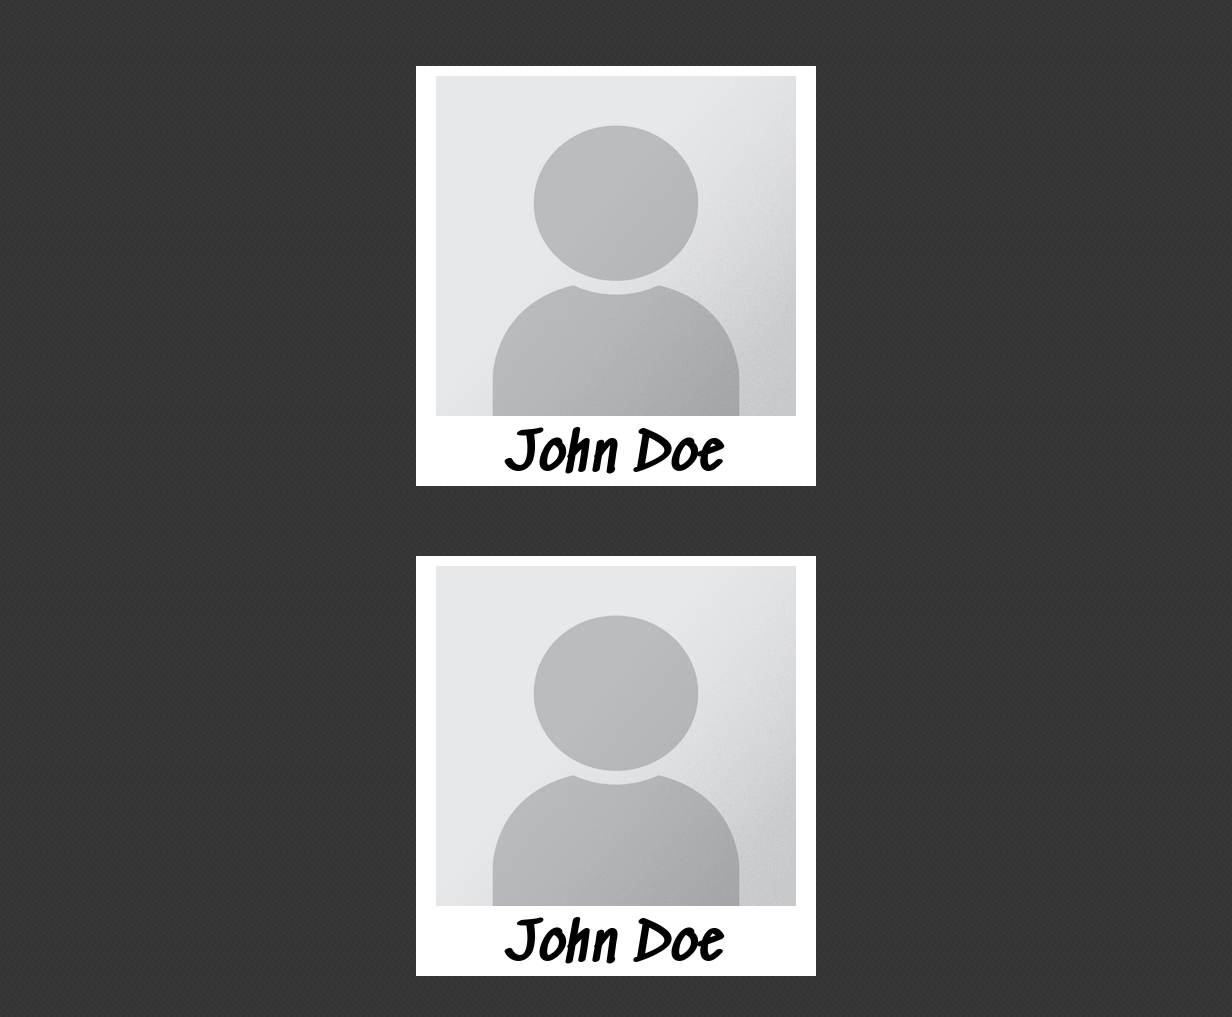
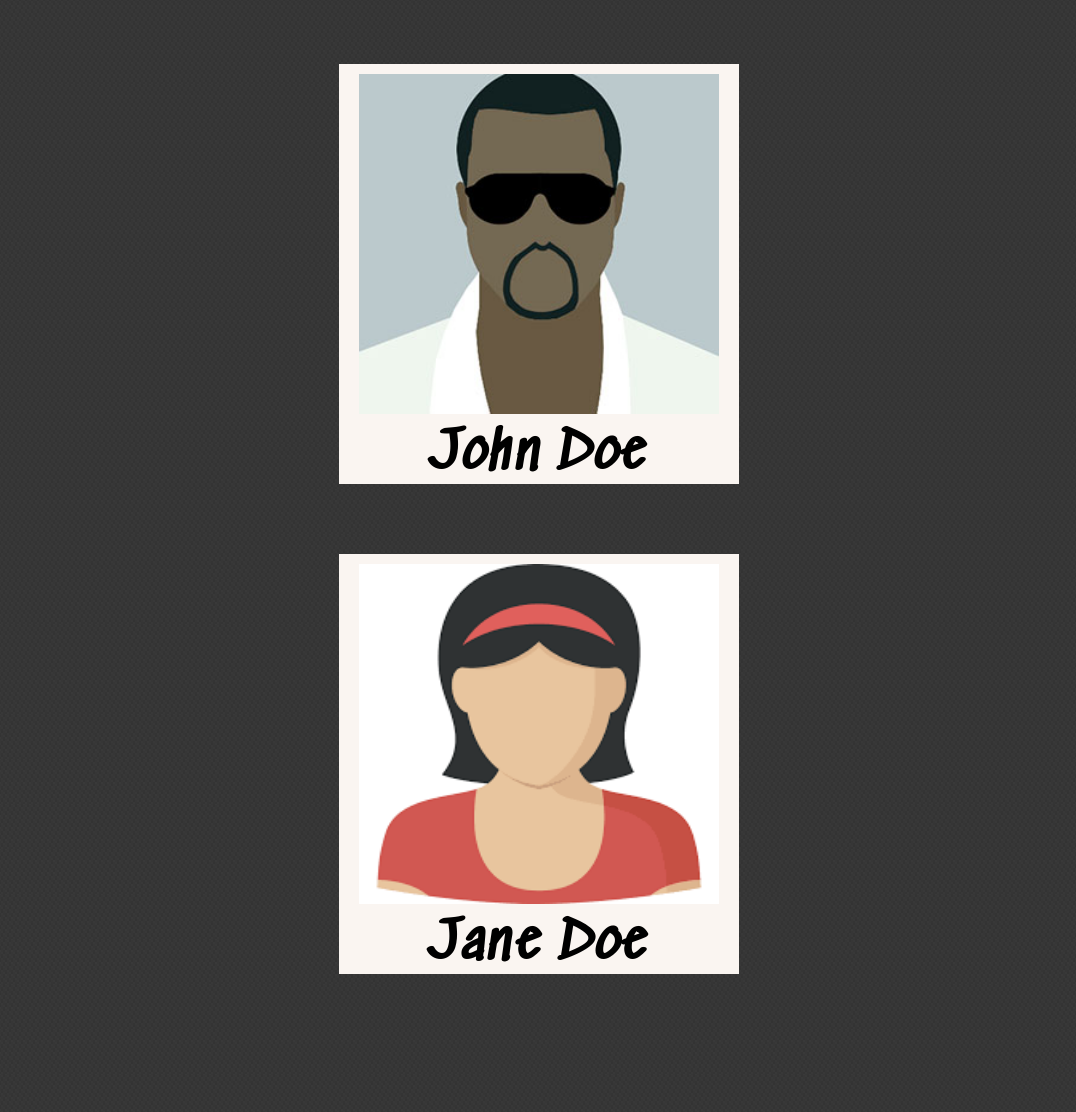
add images

Changed region(s): [[0.3067, 0.0305, 0.7054, 0.9754]]

diff --git a/WOD_Login-screen/Login.html b/WOD_Login-screen/Login.html
@@ -33,7 +33,7 @@ body{
 height:420px;
 width:400px;
 margin:70px auto 0;
-background-color:white;
+background-color:#faf5f1;
 display:none
 }
 
@@ -66,10 +66,10 @@ font-size:50px;
 
 <body>
 
-<div class="card"><img src="profile-placeholder.png" class="mugshot"><div class="credentials">John Doe</div></div></div>
+<div class="card"><img src="testM.jpg" class="mugshot"><div class="credentials">John Doe</div></div></div>
 
-<div class="card"><img src="profile-placeholder.png" class="mugshot"><div class="credentials">John Doe</div></div></div>
 
+<div class="card"><img src="janeDoe1.png" class="mugshot"><div class="credentials">Jane Doe</div></div></div>
 </body>
 
 <script type="text/javascript"></script>
